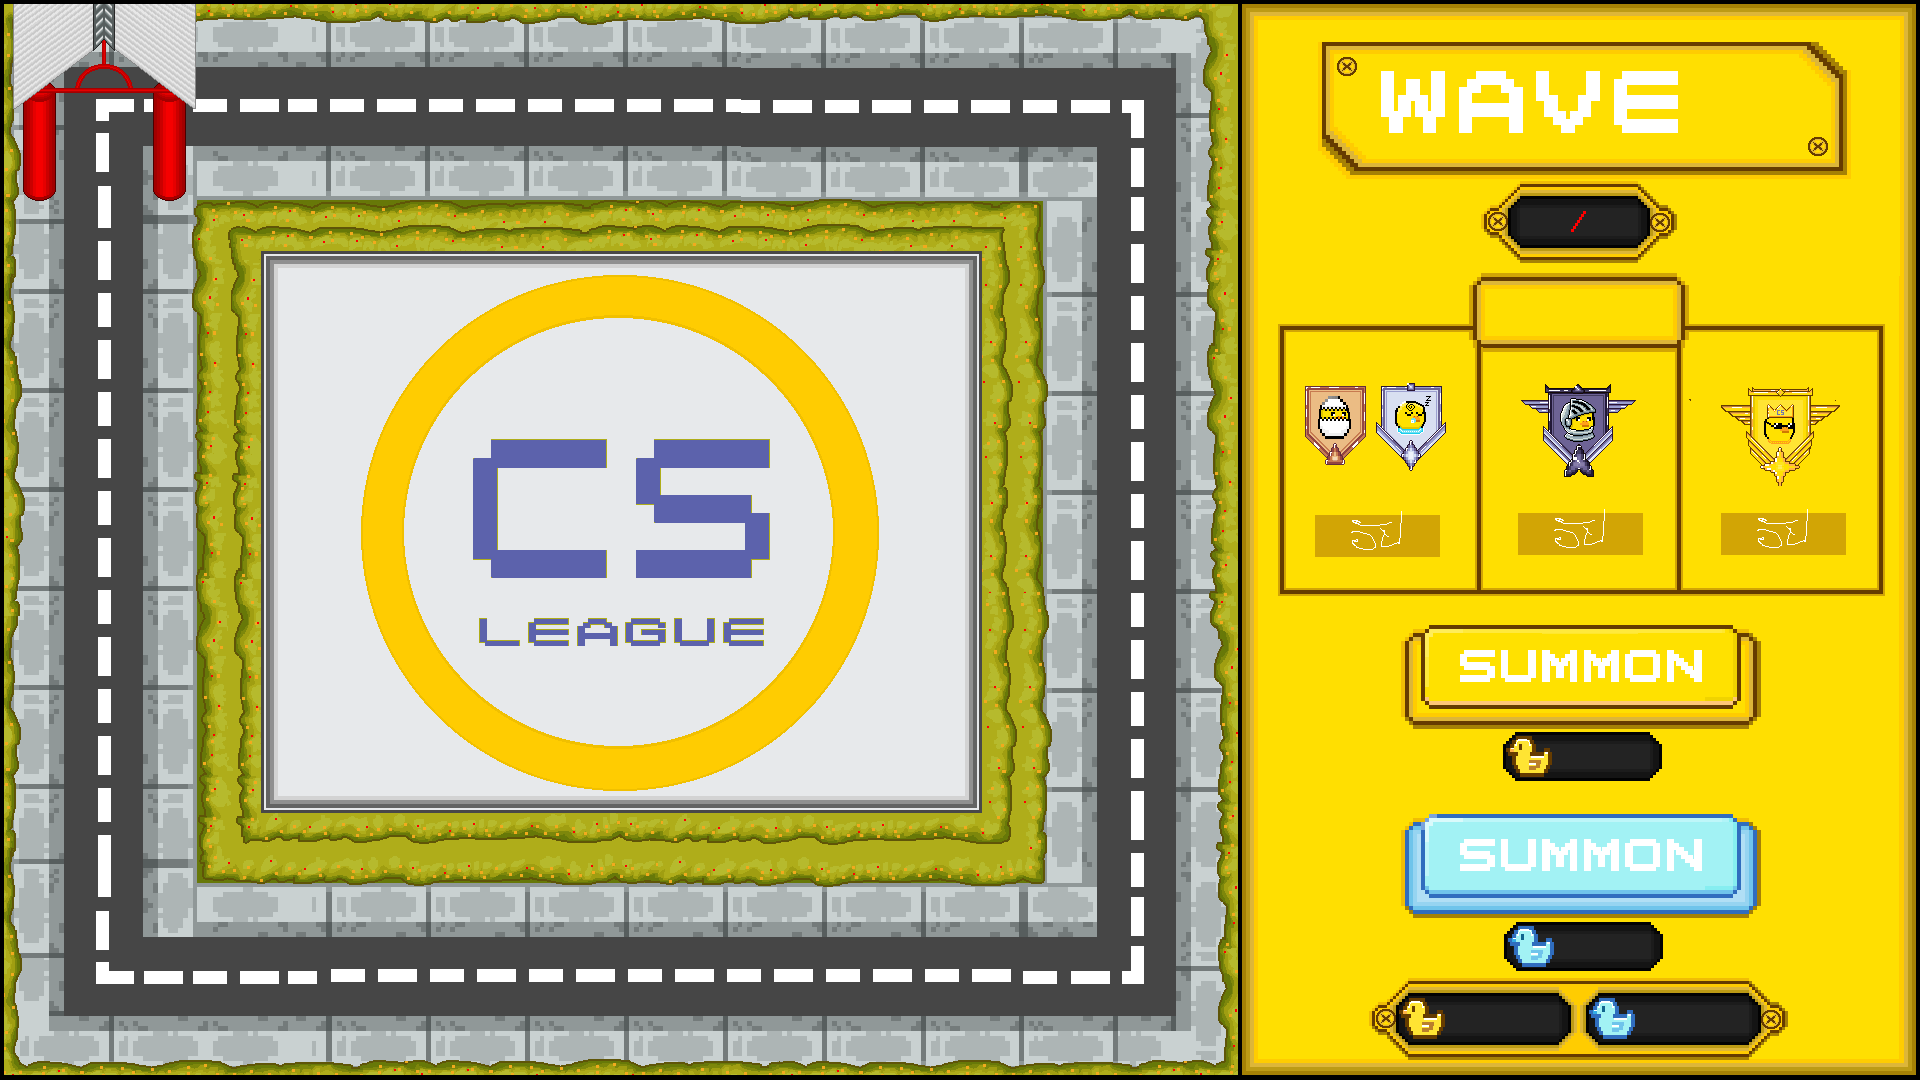
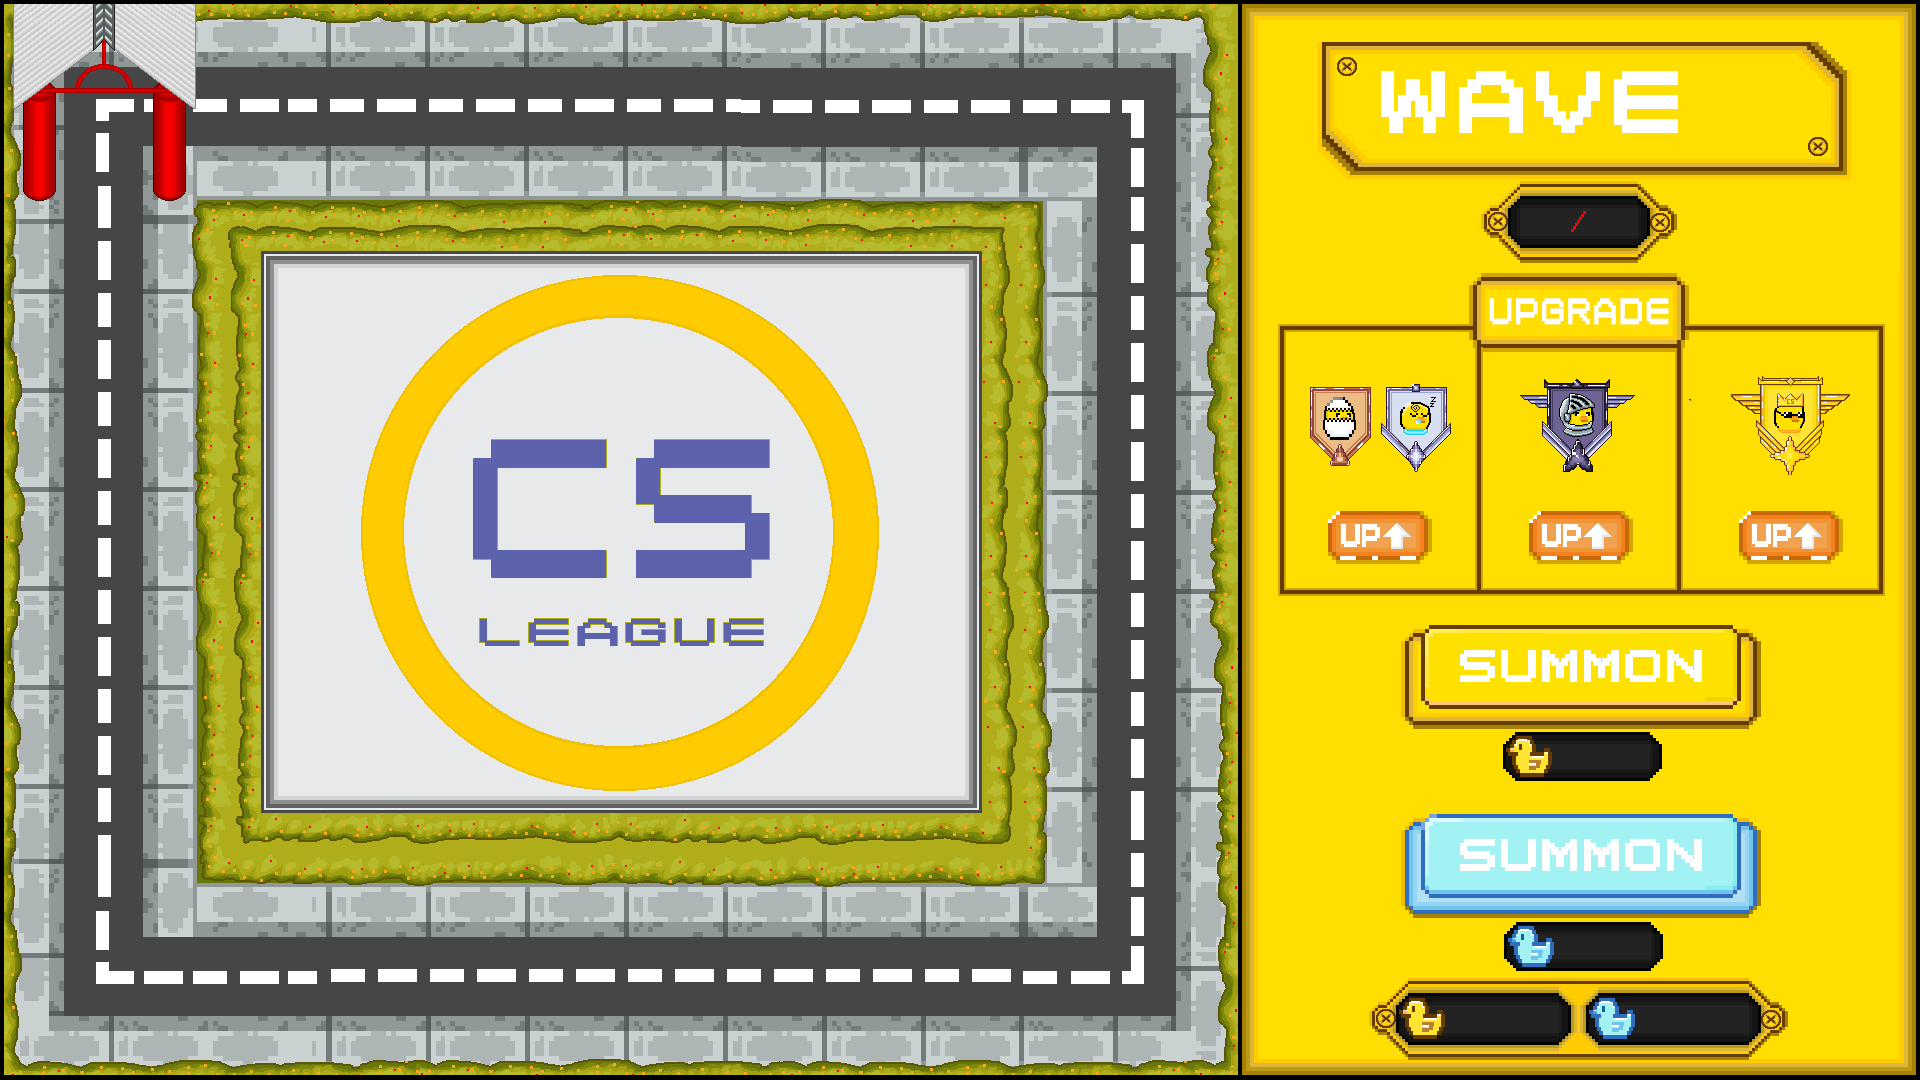
Ui

Changed region(s): [[0.6562, 0.3361, 0.9688, 0.5194], [0.6875, 0.4583, 0.75, 0.5194], [0.7812, 0.275, 0.875, 0.3056]]

diff --git a/demo/src/main/java/ui/Action.java b/demo/src/main/java/ui/Action.java
@@ -4,7 +4,11 @@ import Entity.Hero;
 import Manager.HeroManager;
 
 import java.awt.Graphics;
+import java.awt.Menu;
 import java.awt.event.KeyEvent;
+import java.util.ArrayList;
+
+import javax.swing.text.html.parser.Entity;
 
 import ui.ImageButton;
 import ui.CustomFont;
@@ -16,14 +20,14 @@ import Storage.Player;
 import Storage.RandomHero;
 
 public class Action {
+    private int wave = 1;
     private String Stage = "Normal";
-    
     private Playing playing;
     private Player player;
     private RandomHero randomHero;
 
-    private CustomFont coinText,monsText,gemText,maxMonsText;
-    private ImageButton SpinHeroButton, BinButton, UpgradeButton;
+    private CustomFont coinText,monsText,gemText,maxMonsText,waveText;
+    private ImageButton SpinHeroButton, BinButton, UpgradeButton, LuckySpinButton, UpgradeNormal, UpgradeEpic, UpgradeLegendary;
 
     public Action(Playing playing){
         this.playing = playing;
@@ -35,30 +39,53 @@ public class Action {
 
     private void init(){
         SpinHeroButton = new ImageButton("/Assets/Botton_summon_coin.png", 
-        949, 412, 210, 60, 320, 120);
+        949, 411, 210, 60, 320, 120);
+        LuckySpinButton = new ImageButton("/Assets/Botton_summon_daimond.png",
+        949, 537, 210, 60, 320, 120);
         BinButton = new ImageButton("/Assets/bin.png", 
-        1000, 340, 64, 64, 64, 64);
+        830, 415, 64, 64, 64, 64);
         UpgradeButton = new ImageButton("/Assets/Arrow.png", 
-        1050, 340, 64, 64, 64, 64);
+        880, 415, 64, 64, 64, 64);
+        
 
         coinText = new CustomFont("/Font/number.ttf", 970, 686,1,20f,false);
         gemText = new CustomFont("/Font/number.ttf", 1097, 686,1,20f,false);
+        monsText = new CustomFont("/Font/number.ttf", 1014, 153, 2,17f,true);
+        maxMonsText = new CustomFont("/Font/number.ttf", 1064, 153, 2, 17f, false);
         // hero[0] = new Hero(count, x, y, 0);
+        
+        UpgradeNormal = new ImageButton("/Assets/Botton_up.png", 884, 335, 70, 40, 100, 66);
+        UpgradeEpic = new ImageButton("/Assets/Botton_up.png", 1018, 335, 70, 40, 100, 66);
+        UpgradeLegendary = new ImageButton("/Assets/Botton_up.png", 1158, 335, 70, 40, 100, 66);
     }
 
     public String getStage(){ return Stage; }
-
+    public int getWave(){ return wave; }
 
     public void draw(Graphics G,GameScreen screen){
         SpinHeroButton.draw(G);
+        LuckySpinButton.draw(G);
         BinButton.draw(G);
         UpgradeButton.draw(G);
-
+        UpgradeNormal.draw(G);
+        UpgradeEpic.draw(G);
+        UpgradeLegendary.draw(G);
+        
+        
         coinText.draw(G,String.valueOf(player.getCoin()));
+        monsText.draw(G,String.valueOf(playing.getMonsterManager().getAmount()));
+        // maxMonsText.draw(G, String.valueOf(playing.getmaxMons()));
         gemText.draw(G, String.valueOf(player.getGem()));
+
         // monsText.draw(G,String.valueOf(100));
         // g.drawString(""+coin,x,y);
     }
+
+    public void waveIncrease(){
+        wave++;
+    }
+
+
 
     public void clearStage(){
         Stage = "Normal";
@@ -98,7 +125,23 @@ public class Action {
         } else if (UpgradeButton.getBounds().contains(x,y)){
             changeStage("Upgrade", x, y);
             
-        } else {
+        } else if(LuckySpinButton.getBounds().contains(x,y)){
+            LuckySpinButton.setMouseClick(true);
+            if(player.isEnough("Gem", 1)){
+                player.decreaseValue("Gem", 1);
+                randomHero.randomAllWeight();
+            }
+
+        } else if(UpgradeNormal.getBounds().contains(x,y)){
+            UpgradeNormal.setMouseClick(true);
+            
+
+        } else if(UpgradeEpic.getBounds().contains(x,y)){
+            UpgradeEpic.setMouseClick(true);
+        } else if(UpgradeLegendary.getBounds().contains(x,y)){
+            UpgradeLegendary.setMouseClick(true);
+        }
+        else {
             if (Stage != "Normal" && !playing.getHeroManager().contains(x, y)){ clearStage(); }
         }
     }
@@ -112,15 +155,34 @@ public class Action {
             case "Upgrade":
                 UpgradeButton.setClonePos(x, y);
                 break;
-
+                
             default:
                 break;
         }
-
         SpinHeroButton.setMouseOver(false);
         if (SpinHeroButton.getBounds().contains(x, y)){
             SpinHeroButton.setMouseOver(true);
         }
+        if(LuckySpinButton.getBounds().contains(x,y)){
+            LuckySpinButton.setMouseOver(true);
+        } else {
+            LuckySpinButton.setMouseOver(false);
+        }
+        if(UpgradeNormal.getBounds().contains(x,y)){
+            UpgradeNormal.setMouseOver(true);
+        } else {
+            UpgradeNormal.setMouseOver(false);
+        }
+        if(UpgradeEpic.getBounds().contains(x,y)){
+            UpgradeEpic.setMouseOver(true);
+        } else {
+            UpgradeEpic.setMouseOver(false);
+        }
+        if(UpgradeLegendary.getBounds().contains(x,y)){
+            UpgradeLegendary.setMouseOver(true);
+        } else {
+            UpgradeLegendary.setMouseOver(false);
+        };
     }
 
     public void keyPressed(KeyEvent e){

diff --git a/demo/src/main/java/Stages/Wave.java b/demo/src/main/java/Stages/Wave.java
@@ -23,7 +23,7 @@ public class Wave {
     private boolean isBossSpawn = false;
 
     private boolean showTime = false;
-    private int bossTimeLimit, breakTime = 20; //(Sec)
+    private int bossTimeLimit, breakTime = 5; //(Sec)
     private long tick, timeleft;
     
     public Wave(Playing playing){
@@ -31,7 +31,7 @@ public class Wave {
         this.randomMonster = new RandomMonster(playing);
         this.monsterManager = playing.getMonsterManager();
 
-        waveText = new CustomFont("/Font/number.ttf", 1125, 85,1,30f,false);
+        waveText = new CustomFont("/Font/number.ttf", 1130, 85, 1, 55f, false);
         timeText = new CustomFont("/Font/number.ttf", 500, 686,1,20f,false);
         monsText = new CustomFont("/Font/number.ttf", 1014, 153, 2,17f,true);
         maxMonsText = new CustomFont("/Font/number.ttf", 1064, 153, 2, 17f, false);
@@ -44,8 +44,8 @@ public class Wave {
                 MaxMon = 100; // condition to lose
                 MaxWave = 50;
                 MaxMonPerWave = 10; // first Wave
-                increaseRate = 3; // เพิ่มจำนวน MaxMon ตามจำนวน increaseRate
-                RateFreq = 2; // เพิ่มจำนวน MaxMon ทุกๆ กี่เวฟ
+                increaseRate = 5; // เพิ่มจำนวน MaxMon ตามจำนวน increaseRate
+                RateFreq = 1; // เพิ่มจำนวน MaxMon ทุกๆ กี่เวฟ
 
                 bossTimeLimit = 120;
                 bossSpawnFreq = 5; // boss spawn every ... wave
@@ -55,8 +55,8 @@ public class Wave {
                 MaxMon = 90;
                 MaxWave = 55;
                 MaxMonPerWave = 15; // first Wave
-                increaseRate = 5;
-                RateFreq = 2;
+                increaseRate = 10;
+                RateFreq = 1;
 
                 bossTimeLimit = 60;
                 bossSpawnFreq = 5;
@@ -118,7 +118,7 @@ public class Wave {
             }else {
                 timeleft = (breakTime*1000) - (System.currentTimeMillis() - tick);
                 
-                if (timeleft <= 10000){
+                if (timeleft <= 5000){
                     showTime = true;
                 }
             }
@@ -132,7 +132,7 @@ public class Wave {
     public void draw(Graphics G, GameScreen Screen){
 
         maxMonsText.draw(G, String.valueOf(MaxMon));
-        waveText.draw(G, String.valueOf(CurrentWave) + " / " + String.valueOf(MaxWave));
+        waveText.draw(G, String.valueOf(CurrentWave));
         monsText.draw(G, String.valueOf(monsterManager.getAmount()));
 
         if (!showTime){return;}

diff --git a/demo/src/main/java/Scenes/GameOver.java b/demo/src/main/java/Scenes/GameOver.java
@@ -55,7 +55,10 @@ public class GameOver extends GameScene implements SceneMethods {
 
     @Override
     public void mouseMoved(int x, int y) {
-        // TODO Auto-generated method stub
+        Replay.setMouseOver(false);
+        if(Replay.getBounds().contains(x,y)){
+            Replay.setMouseOver(true);
+        }
         
     }
 

diff --git a/demo/src/main/java/Entity/Hero.java b/demo/src/main/java/Entity/Hero.java
@@ -235,9 +235,15 @@ class HeroInfo
         this.ATK = ATK * Amount;
     }
 
+    public void upgradeATK(){
+        ATK = ATK * 2;
+    }
+
+
     public String[] getReward(){
         return reward;
     }
+
 
     public int getRadius(){
         return Radius;

diff --git a/demo/src/main/java/Storage/Player.java b/demo/src/main/java/Storage/Player.java
@@ -3,7 +3,7 @@ package Storage;
 import Scenes.Playing;
 
 public class Player {
-    private int coin, gem;
+    private int coin, gem, wave;
     private Playing playing;
     private double commonWeight, rareWeight, epicWeight, legendaryWeight;
 

diff --git a/demo/src/main/java/Entity/Mage.java b/demo/src/main/java/Entity/Mage.java
@@ -9,4 +9,8 @@ public class Mage extends Hero {
 
         super.loadAnimations(2, 6, 64);
     }
+
+    public void upgrade(){
+        super.getInfo().upgradeATK();
+    }
 }
